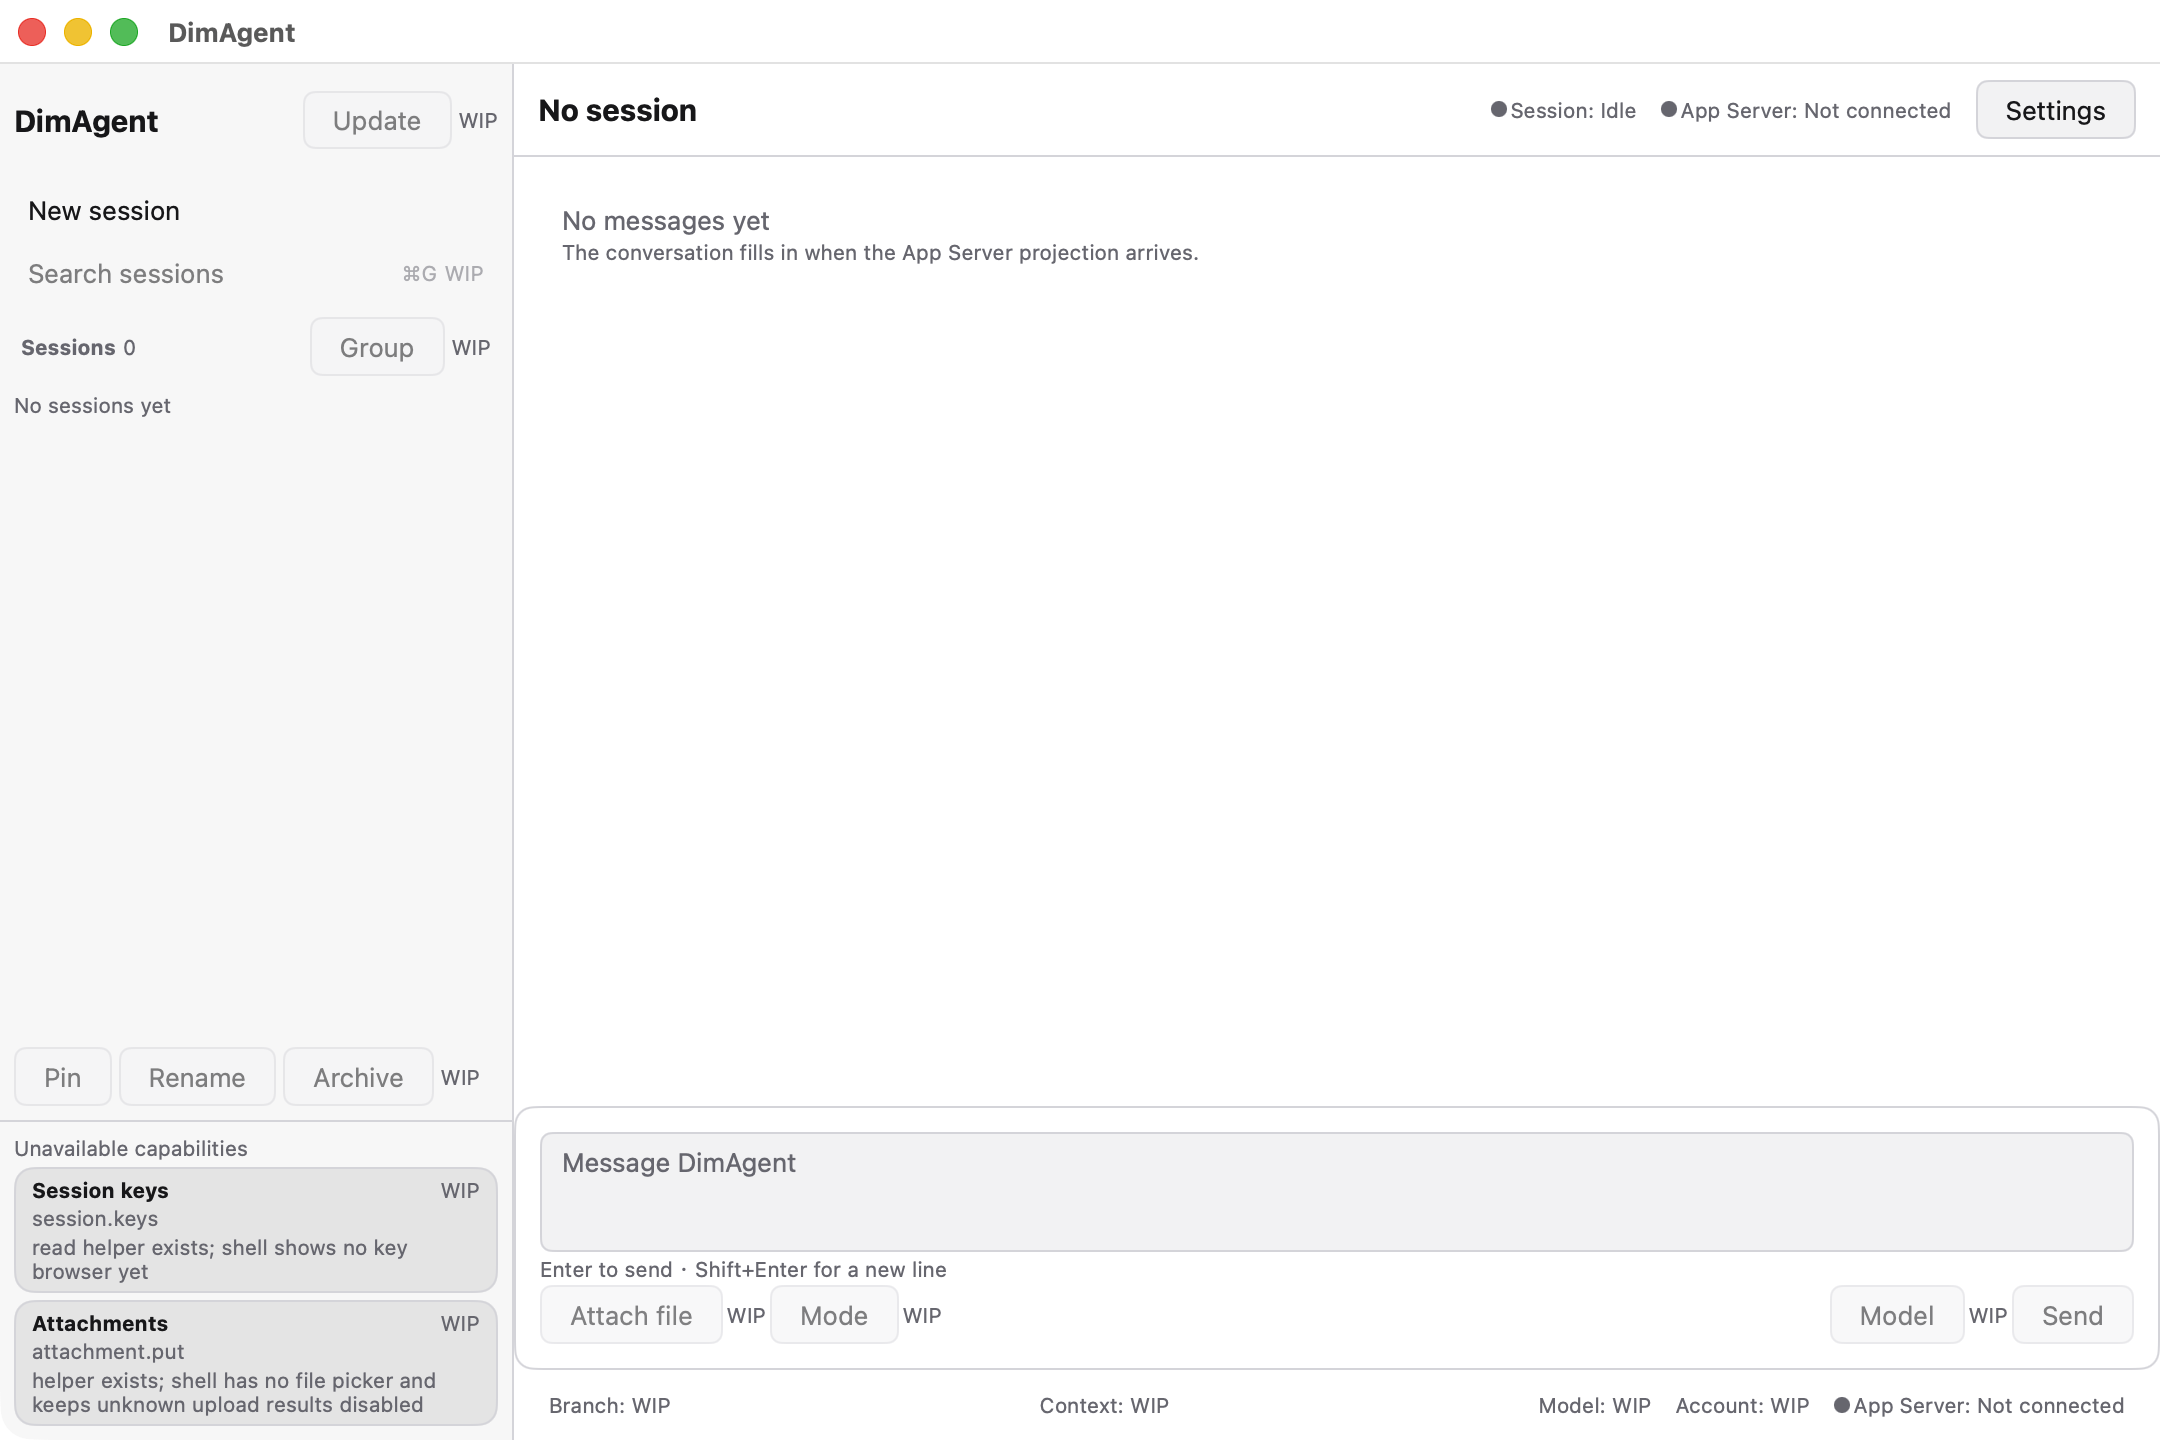
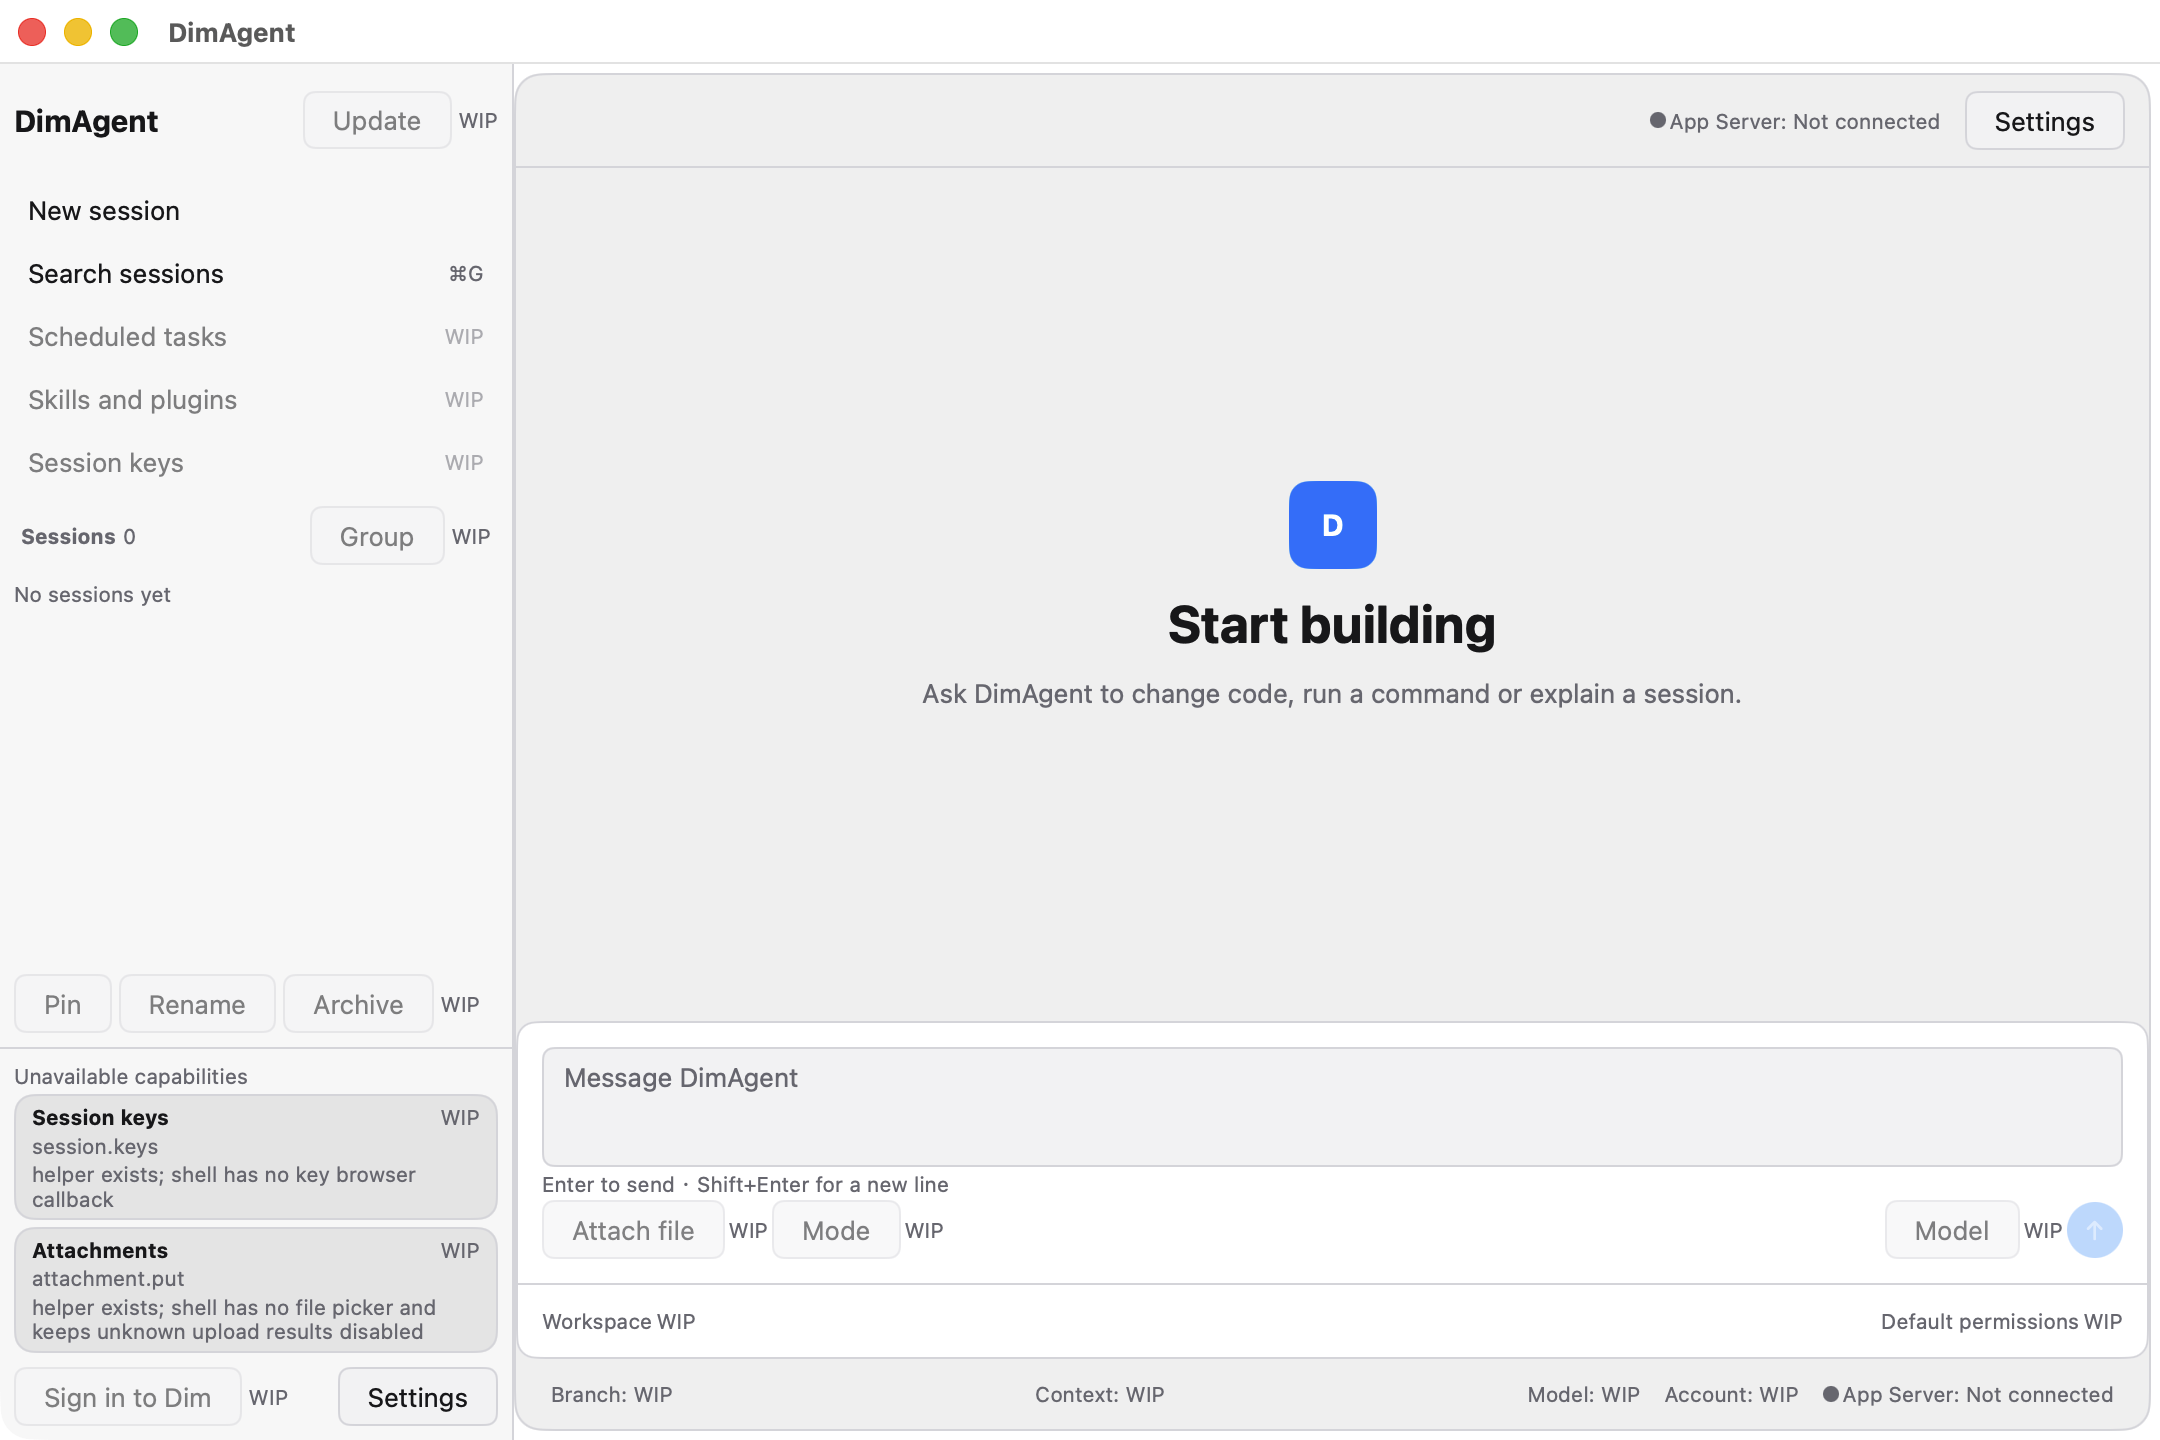
docs: refresh window evidence on the framed shell

diff --git a/docs/window-evidence.md b/docs/window-evidence.md
@@ -12,14 +12,14 @@
 |---|---|
 | 机器 | macOS 26.6.2（darwin/arm64） |
 | Go | go1.27.3 darwin/arm64 |
-| 源码 | `HEAD = 1c297d98b7ee48fe98af3c01ee3737089c386e2d`，工作区 clean（2026-11-09 13:31 重跑） |
-| 构建时间 | 2026-11-09 13:31:48 CST |
+| 源码 | `HEAD = 3a5256519ea9832968f6e67e646072869eed1465`，工作区 clean（2026-11-09 14:49 重跑） |
+| 构建时间 | 2026-11-09 14:49:54 CST |
 | App Server 二进制 | `/tmp/dim-2-target/debug/dim-app-server`（Mach-O arm64，401 302 448 B，mtime 2026-11-08 23:38） |
 | 窗口库 | `github.com/egoist/mygo v0.8.3`（`mygo.NewWindow`，`Width: 1080`、`Height: 720`） |
 | 截图工具 | `/usr/sbin/screencapture -x -o -l <windowid>`（按窗口 ID 截取，只含该窗口，不含桌面和其它应用） |
 | 窗口 ID 来源 | `CGWindowListCopyWindowInfo`，按**本进程 PID** 过滤；脚本内用 `swiftc` 现场编译小工具读取 |
 
-2026-11-09 13:31 的这次采集在 `1c297d9`（P0+部分 P1 组件与 branch 选择落地）上重跑，工作区 clean；`docs/evidence/window-*.txt` 的 `git_head` / `git_dirty` 记录同一事实。源码再变时截图即过期，需要重跑脚本。
+2026-11-09 14:49 的这次采集在 `3a52565`（主区卡片、空态 hero、composer context row、侧栏入口落地）上重跑，工作区 clean；`docs/evidence/window-*.txt` 的 `git_head` / `git_dirty` 记录同一事实。源码再变时截图即过期，需要重跑脚本。
 
 ## 2. 复现命令
 
@@ -37,14 +37,14 @@ cd /Users/eric8810/Code/dimagent-mygo
 4. 两种状态都在窗口拿到真实尺寸后 `sleep 1` 再截图；截图后按 PID 结束应用，并按「命令行里含本次临时 home 路径」精确结束本次 spawn 的 daemon；随后 `rm -rf` 临时 home。
 5. 全程不读写 `~/.dimcode`，不使用用户的真实 product home。结束时打印 `all requested captures done; no leftover daemon from this run`，并复查没有本次残留的 daemon。
 
-## 3. 采集结果（2026-11-09 13:31 CST）
+## 3. 采集结果（2026-11-09 14:49 CST）
 
 | 状态 | 采集时间 | 窗口 ID | 窗口位置/尺寸（points） | PNG 像素 | 字节 | PNG 路径 |
 |---|---|---|---|---|---|---|
-| 未连接 | 13:31:48 → 13:31:52 | 47683 | `484,116,1080,720` | 2160×1440（= 1080×720 @2x） | 233 937 | [`evidence/window-disconnected.png`](evidence/window-disconnected.png) |
-| 已连接 | 13:31:53 → 13:31:55 | 47693 | `484,116,1080,720` | 2160×1440（= 1080×720 @2x） | 232 581 | [`evidence/window-connected.png`](evidence/window-connected.png) |
+| 未连接 | 14:49:54 → 14:49:56 | 87019 | `484,116,1080,720` | 2160×1440（= 1080×720 @2x） | 276 010 | [`evidence/window-disconnected.png`](evidence/window-disconnected.png) |
+| 已连接 | 14:49:56 → 14:49:58 | 87108 | `484,116,1080,720` | 2160×1440（= 1080×720 @2x） | 275 619 | [`evidence/window-connected.png`](evidence/window-connected.png) |
 
-MD5：未连接 `5633351daee0524feab0534da928b67b`，已连接 `b57b3e2f949c7726c14103b354db0cc6`。
+MD5：未连接 `98e01aacf375773dacb6691c40f28be0`，已连接 `d0042bb57934966762cd214381f54eea`。
 
 机器可读的采集元数据（脚本生成，含源码快照、PID、窗口 ID、bounds、daemon 命令行）：
 [`evidence/window-disconnected.txt`](evidence/window-disconnected.txt)、[`evidence/window-connected.txt`](evidence/window-connected.txt)。
